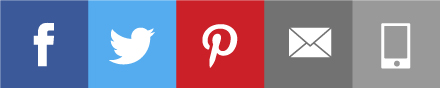
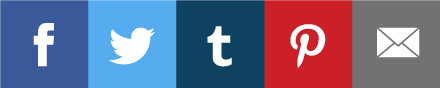
add tumblr
add tumblr

diff --git a/fairytale/index.html b/fairytale/index.html
@@ -15,9 +15,9 @@
 	<section class="bar">
 		<a href="https://www.facebook.com/sharer/sharer.php?u=http%3A%2F%2Ftestkitchen.huffingtonpost.com%2F482583%2F&display=popup&ref=plugin&src=like&app_id=113869198637480"  target="_blank"><div></div></a>
 		<a href="https://twitter.com/intent/tweet?original_referer=https%3A%2F%2Fabout.twitter.com%2Fresources%2Fbuttons&ref_src=twsrc%5Etfw&text=Inside%20the%20Surprisingly%20Sexy%20World%20of%20Tumblr%20Porn&tw_p=tweetbutton&url=http%3A%2F%2Ftestkitchen.huffingtonpost.com%2Ftumblr-porn%2F"  target="_blank"><div></div></a>
+		<a href="https://www.tumblr.com/widgets/share/tool?canonicalUrl=http://testkitchen.huffingtonpost.com/tumblr-porn/" target="_blank"><div></div></a>
 		<a href="https://www.pinterest.com/pin/create/button/?url=http%3A%2F%2Ftestkitchen.huffingtonpost.com%2Ftumblr-porn&media=https%3A%2F%2Frm-content.s3.amazonaws.com%2Freadymag%2Fupload-4ca89e30-d57f-11e5-87f8-5f96c7c39296.jpg&description=Inside%20The%20Surprising%20World%20of%20Tumblr%20Porn" target="_blank"><div></div></a>
 		<a href="mailto:?body=Article: http://testkitchen.huffingtonpost.com/tumblr-porn/"  target="_top"><div></div></a>
-		<a href="sms:;body=I%27m%20interested%20in%20your%20product.%20Please%20contact%20me."><div></div></a>
 	
 	</section>
 
